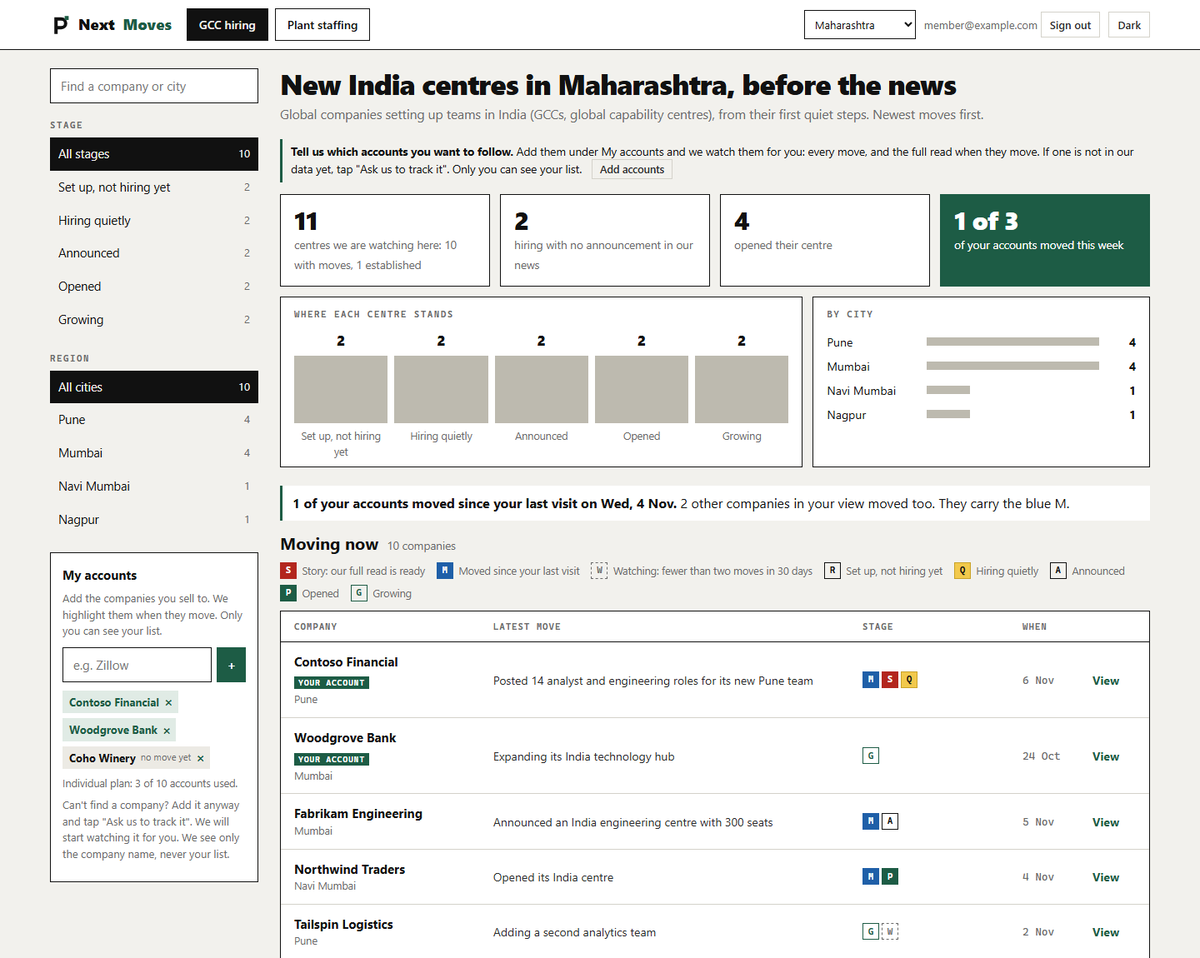
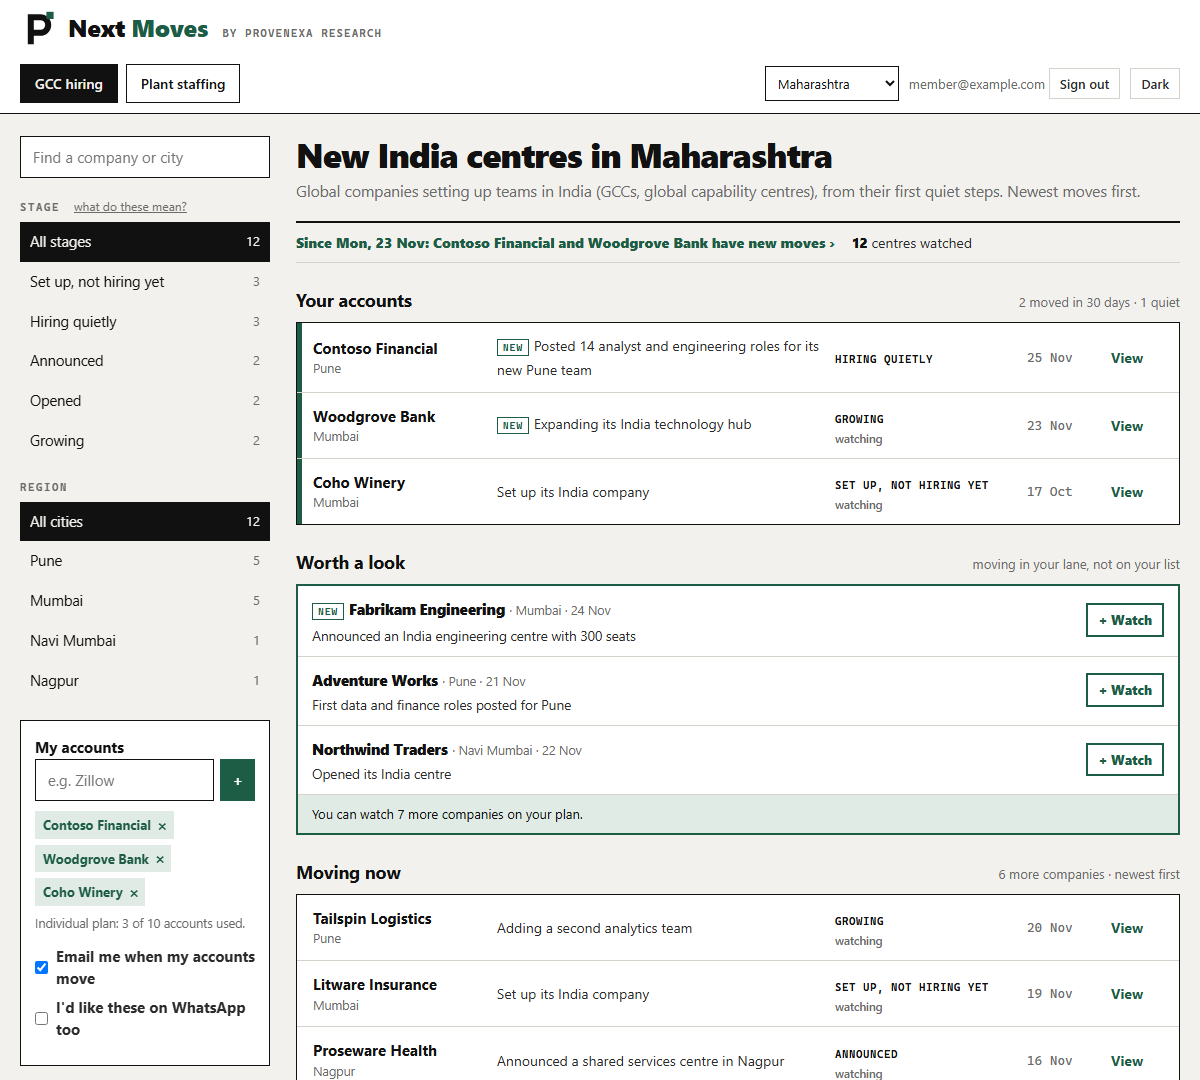
Home page 'See inside': fresh picture of today's members page (your accounts, worth a look, moving now; sample companies) and four lines to match

diff --git a/index.html b/index.html
@@ -302,12 +302,12 @@ footer a{color:var(--acc)}
       <span class="eyebrow">See inside</span>
       <h2>What members see every morning</h2>
       <div class="inside">
-        <div class="shot"><div class="bar">The members page today · sample companies</div><img src="assets/members-sample.png" alt="The members page: filters on the left, number tiles, and a list of companies that moved, each with its latest move and stage" loading="lazy" width="1200" height="958"></div>
+        <div class="shot"><div class="bar">The members page today · sample companies</div><img src="assets/members-sample.png" alt="The members page: your accounts first, then companies worth a look, then a list of companies that moved, each with its latest move, stage and date" loading="lazy" width="1200" height="1080"></div>
         <div class="calls">
-          <div class="callx"><span class="n">1</span><div><b>Filters on the left.</b> Stage and city, each with a count.</div></div>
-          <div class="callx"><span class="n">2</span><div><b>Moving now.</b> One line per company: what moved and when. Moves since your last visit are marked.</div></div>
-          <div class="callx"><span class="n">3</span><div><b>The quick brief.</b> What happened, with dates. What it means, who can act, and one question to ask on the call. On paid plans, the likely person's public profile too.</div></div>
-          <div class="callx"><span class="n">4</span><div><b>Your accounts.</b> Add the companies you sell to. We highlight them when they move. Only you see your list.</div></div>
+          <div class="callx"><span class="n">1</span><div><b>Your accounts first.</b> Add the companies you sell to. Their moves come first, and new ones are marked. Only you see your list.</div></div>
+          <div class="callx"><span class="n">2</span><div><b>Worth a look.</b> Companies moving in your lane that are not on your list yet. One tap to watch them.</div></div>
+          <div class="callx"><span class="n">3</span><div><b>Moving now.</b> One line per company: what moved, where it stands, and when. Filter by stage and city on the left.</div></div>
+          <div class="callx"><span class="n">4</span><div><b>The quick brief.</b> Tap View. What happened, with dates. What it means, who can act, and one question to ask on the call. On paid plans, the likely person's public profile too.</div></div>
           <div><a class="cta acc" href="members/">Sign up free</a></div>
         </div>
       </div>
